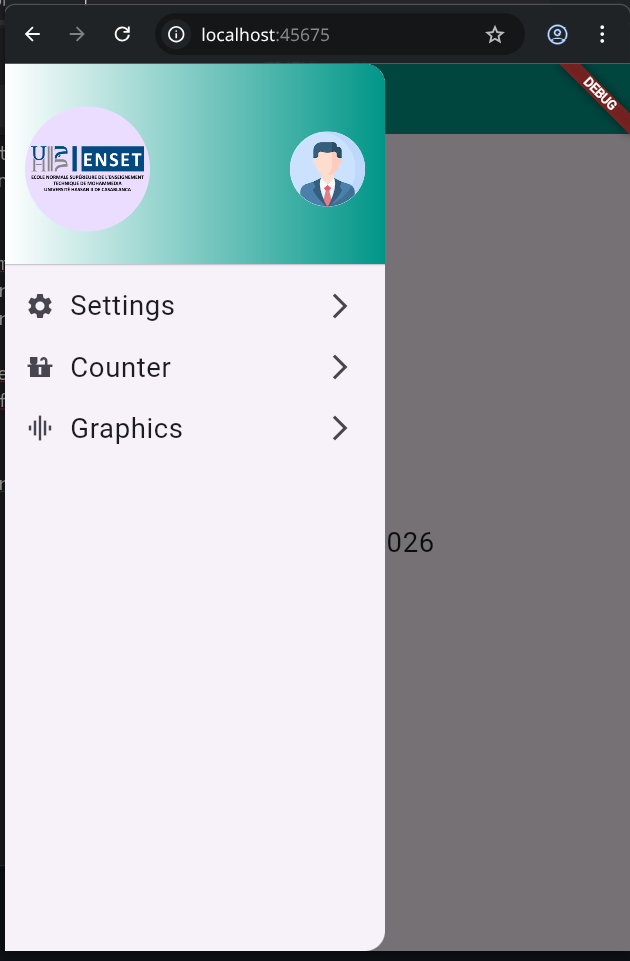
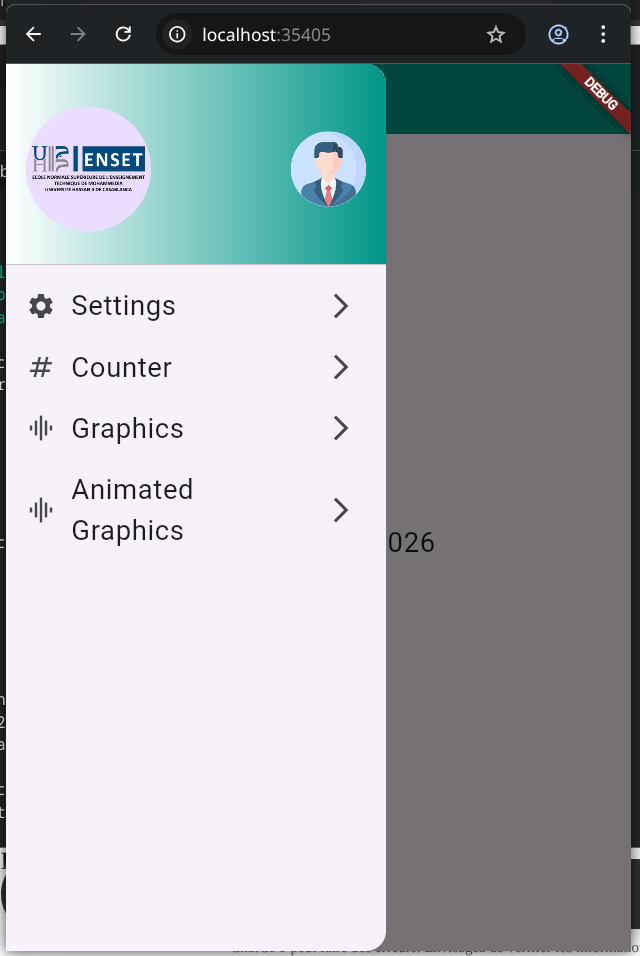
fix README, and update drawer menu and screenshoot

diff --git a/lib/widgets/drawer.widget.dart b/lib/widgets/drawer.widget.dart
@@ -21,7 +21,7 @@ class MyDrawer extends StatelessWidget {
           ),
           DrawerItem(
             title: "Counter",
-            icon: Icon(Icons.countertops),
+            icon: Icon(Icons.numbers),
             onValidate: (){
               Navigator.pop(context);
               Navigator.pushNamed(context, "/counter");

diff --git a/README.md b/README.md
@@ -8,6 +8,6 @@
 ### Counter page
 ![Counter page](screenshoots/counter_page.png)
 ### Graphics page
-![Graphics page](screenshoots/graphics.png)
-### ANimated Graphics page
+![Graphics page](screenshoots/graphics_page.png)
+### Animated Graphics page
 ![Animated Graphics page](screenshoots/animated_graphics_page.gif)
